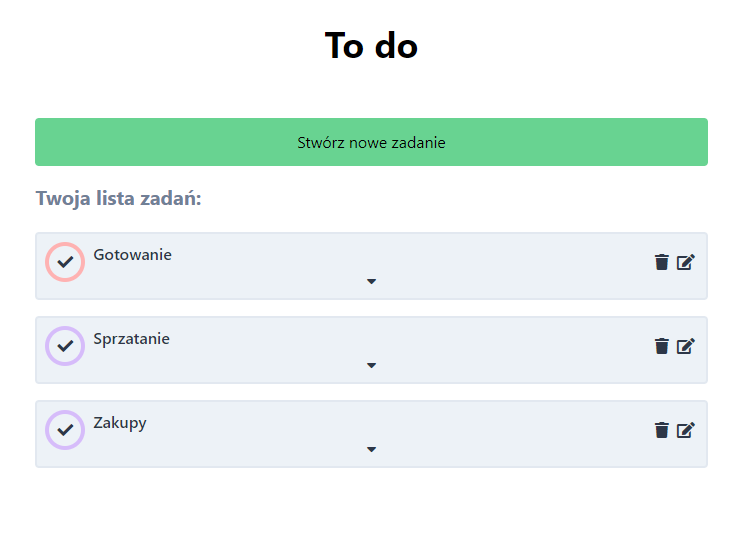
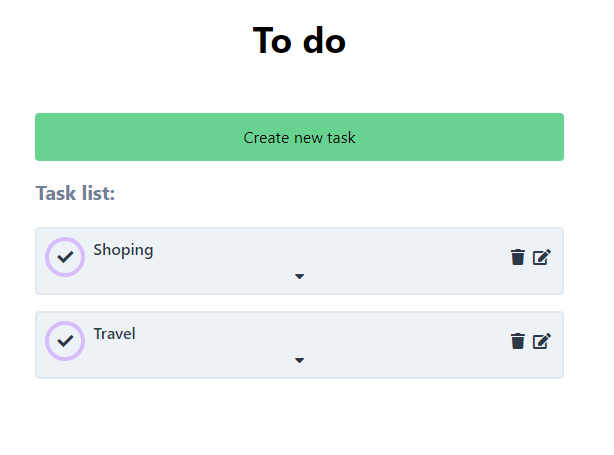
change language to english

diff --git a/src/Components/Sections/TodoForm/TodoForm.js b/src/Components/Sections/TodoForm/TodoForm.js
@@ -28,11 +28,9 @@ function TodoForm({
 
   const onFormSubmit = (event) => {
     event.preventDefault();
-    //wyciągnięcie z event.target elements i nazwanie go inputs - są tu obie wartości z obu inputów
 
     const { elements: inputs } = event.target;
 
-    // walidacja długości wprowadzonego tytułu i opisu (musi byc return żeby błędnego valunie dało się submitować)
     let isFormInvalid = false;
     let newTodoAuthor = inputs[0].value;
     let newTodoTitle = inputs[1].value;
@@ -63,88 +61,44 @@ function TodoForm({
     };
 
     if (newTodoAuthor.length < 3) {
-      setForm("authorValidationLabel", "Podaj autora! (min 3 znaki)");
-
-      // setFormState((prevState) => {
-      //   return {
-      //     ...prevState,
-      //     authorValidationLabel: "Podaj autora! (min 3 znaki)",
-      //   };
-      // });
+      setForm(
+        "authorValidationLabel",
+        "Please enter the author! (at least 3 characters)"
+      );
       isFormInvalid = true;
     } else {
       setForm("authorValidationLabel", "");
-
-      // setFormState((prevState) => {
-      //   return {
-      //     ...prevState,
-      //     authorValidationLabel: "",
-      //   };
-      // });
     }
 
     if (newTodoTitle.length < 5) {
-      setForm("titleValidationLabel", "Wprowadź dłuższy tytuł! (min 5 znaków)");
-
-      // setFormState((prevState) => {
-      //   return {
-      //     ...prevState,
-      //     titleValidationLabel: "wprowadz dłuższy tytuł! (min 5 znaków)",
-      //   };
-      // });
-
+      setForm(
+        "titleValidationLabel",
+        "Please enter a longer title! (at least 5 characters)"
+      );
       isFormInvalid = true;
     } else {
       setForm("titleValidationLabel", "");
-      // setFormState((prevState) => {
-      //   return { ...prevState, titleValidationLabel: "" };
-      // });
     }
 
     if (newTodoDesc.length < 5) {
-      setForm("descValidationLabel", "Wprowadz dłuższy opis! (min 5 znaków)");
-
-      // setFormState((prevState) => {
-      //   return {
-      //     ...prevState,
-      //     descValidationLabel: "wprowadz dłuższy opis! (min 5 znaków)",
-      //   };
-      // });
+      setForm(
+        "descValidationLabel",
+        "Please enter a longer description! (at least 5 characters)"
+      );
       isFormInvalid = true;
     } else {
       setForm("descValidationLabel", "");
-      // setFormState((prevState) => {
-      //   return {
-      //     ...prevState,
-      //     descValidationLabel: "",
-      //   };
-      // });
     }
 
     if (!newTodoUrl.match(regex)) {
-      setForm("urlValidationLabel", "Wprowadź poprawnie adres url");
-
-      // setFormState((prevState) => {
-      //   return {
-      //     ...prevState,
-      //     urlValidationLabel: "wprowadź poprawnie adres url",
-      //   };
-      // });
+      setForm("urlValidationLabel", "Enter the url correctly");
       isFormInvalid = true;
     } else {
       setForm("urlValidationLabel", "");
-
-      // setFormState((prevState) => {
-      //   return {
-      //     ...prevState,
-      //     urlValidationLabel: "",
-      //   };
-      // });
     }
 
     if (isFormInvalid) return;
 
-    //tworzymy obiekt task który będziemy wysyłać
     const todoObject = {
       author: newTodoAuthor,
       title: newTodoTitle,
@@ -158,7 +112,7 @@ function TodoForm({
     }
 
     onFormSubmitCallBack(todoObject);
-    // na końcu czyścimy input i alerty
+
     for (const input of inputs) {
       input.value = "";
     }
@@ -171,38 +125,38 @@ function TodoForm({
   return (
     <section className="container bg-white border-2 rounded border-gray-300 w-11/12 md:w-3/5 lg:w-7/12 xl:w-2/5 p-4 mx-auto">
       <h2 className="text-gray-600 font-bold text-xl">
-        {isFormEdited ? "Edytuj zadanie:" : "Stwórz zadanie:"}
+        {isFormEdited ? "Edit task:" : "Create task:"}
       </h2>
       <form
         onSubmit={onFormSubmit}
         className="flex-col justify-center w-full py-5"
       >
         <Input
-          label="Autor:"
+          label="Author:"
           id="taskAuthor"
           name="taskAuthor"
           type="text"
-          placeholder="Marta"
+          placeholder="Ann"
           value={todo.author}
           validationError={authorValidationLabel}
         ></Input>
 
         <Input
-          label="Tytuł zadania:"
+          label="Task title:"
           id="taskTitle"
           name="taskTitle"
           type="text"
-          placeholder="Dom"
+          placeholder="Cleaning"
           value={todo.title}
           validationError={titleValidationLabel}
         ></Input>
 
         <Input
-          label="Opis zadania:"
+          label="Task description:"
           id="taskDescription"
           name="taskDescription"
           type="text"
-          placeholder="posprzatac lazienke"
+          placeholder="cleaning kitchen"
           value={todo.description}
           validationError={descValidationLabel}
         ></Input>
@@ -224,7 +178,7 @@ function TodoForm({
         />
 
         <Button
-          label={isFormEdited ? "Zapisz" : "Dodaj"}
+          label={isFormEdited ? "Save" : "Add"}
           type="submit"
           variant="add"
         />
@@ -232,7 +186,7 @@ function TodoForm({
         {isFormEdited && (
           <Link to="/">
             <Button
-              label="Anuluj"
+              label="cancel"
               type="reset"
               variant="cancel"
               callbackFn={onCloseEdit}

diff --git a/src/App.js b/src/App.js
@@ -60,7 +60,6 @@ function App() {
   };
 
   const onTodoToggle = (todo) => {
-    // jeśli mamy parametr do funkcji to nie powinniśmy go zmieniać, zmieniamy na stringa a potem parsujemy więc go klonujemy
     let todoEdited = JSON.parse(JSON.stringify(todo));
 
     if (!todoEdited.extra) {
@@ -98,7 +97,7 @@ function App() {
         </div>
         {didRequestFail && (
           <div className="bg-white h-screen w-screen flex items-center justify-center">
-            <p>Nie udało się pobrać danych. Spróbuj ponownie.</p>
+            <p>The data could not be retrieved. Try again.</p>
           </div>
         )}
         {!didRequestFail && (
@@ -106,11 +105,7 @@ function App() {
             <Route exact path="/">
               <div className="container w-11/12 md:w-3/5 lg:w-7/12 xl:w-2/5 mx-auto">
                 <Link to="/create">
-                  <Button
-                    label="Stwórz nowe zadanie"
-                    type="button"
-                    variant="add"
-                  />
+                  <Button label="Create new task" type="button" variant="add" />
                 </Link>
 
                 <TodoList

diff --git a/src/Components/Sections/TodoList/TodoList.js b/src/Components/Sections/TodoList/TodoList.js
@@ -15,9 +15,7 @@ const tasksComparator = (a, b) => {
 function TodoList({ todos, onTodoDelete, onTodoToggle, onTodoEdit }) {
   return (
     <section className="container w-full">
-      <h2 className="mb-5 text-gray-600 font-bold text-xl">
-        Twoja lista zadań:
-      </h2>
+      <h2 className="mb-5 text-gray-600 font-bold text-xl">Task list:</h2>
       {todos.sort(tasksComparator).map((todo) => {
         let todoClassName = "font-semibold";
 

diff --git a/src/Components/UI/Select/Select.js b/src/Components/UI/Select/Select.js
@@ -19,8 +19,8 @@ function Select({ label, id, value }) {
           defaultValue={value}
         >
           <option value="1">ASAP!!!</option>
-          <option value="2">spokojnie dziś to ogarnę</option>
-          <option value="3">co się odwlecze to nie uciecze</option>
+          <option value="2">Do it today</option>
+          <option value="3">When you have free time</option>
         </select>
       </div>
     </div>
